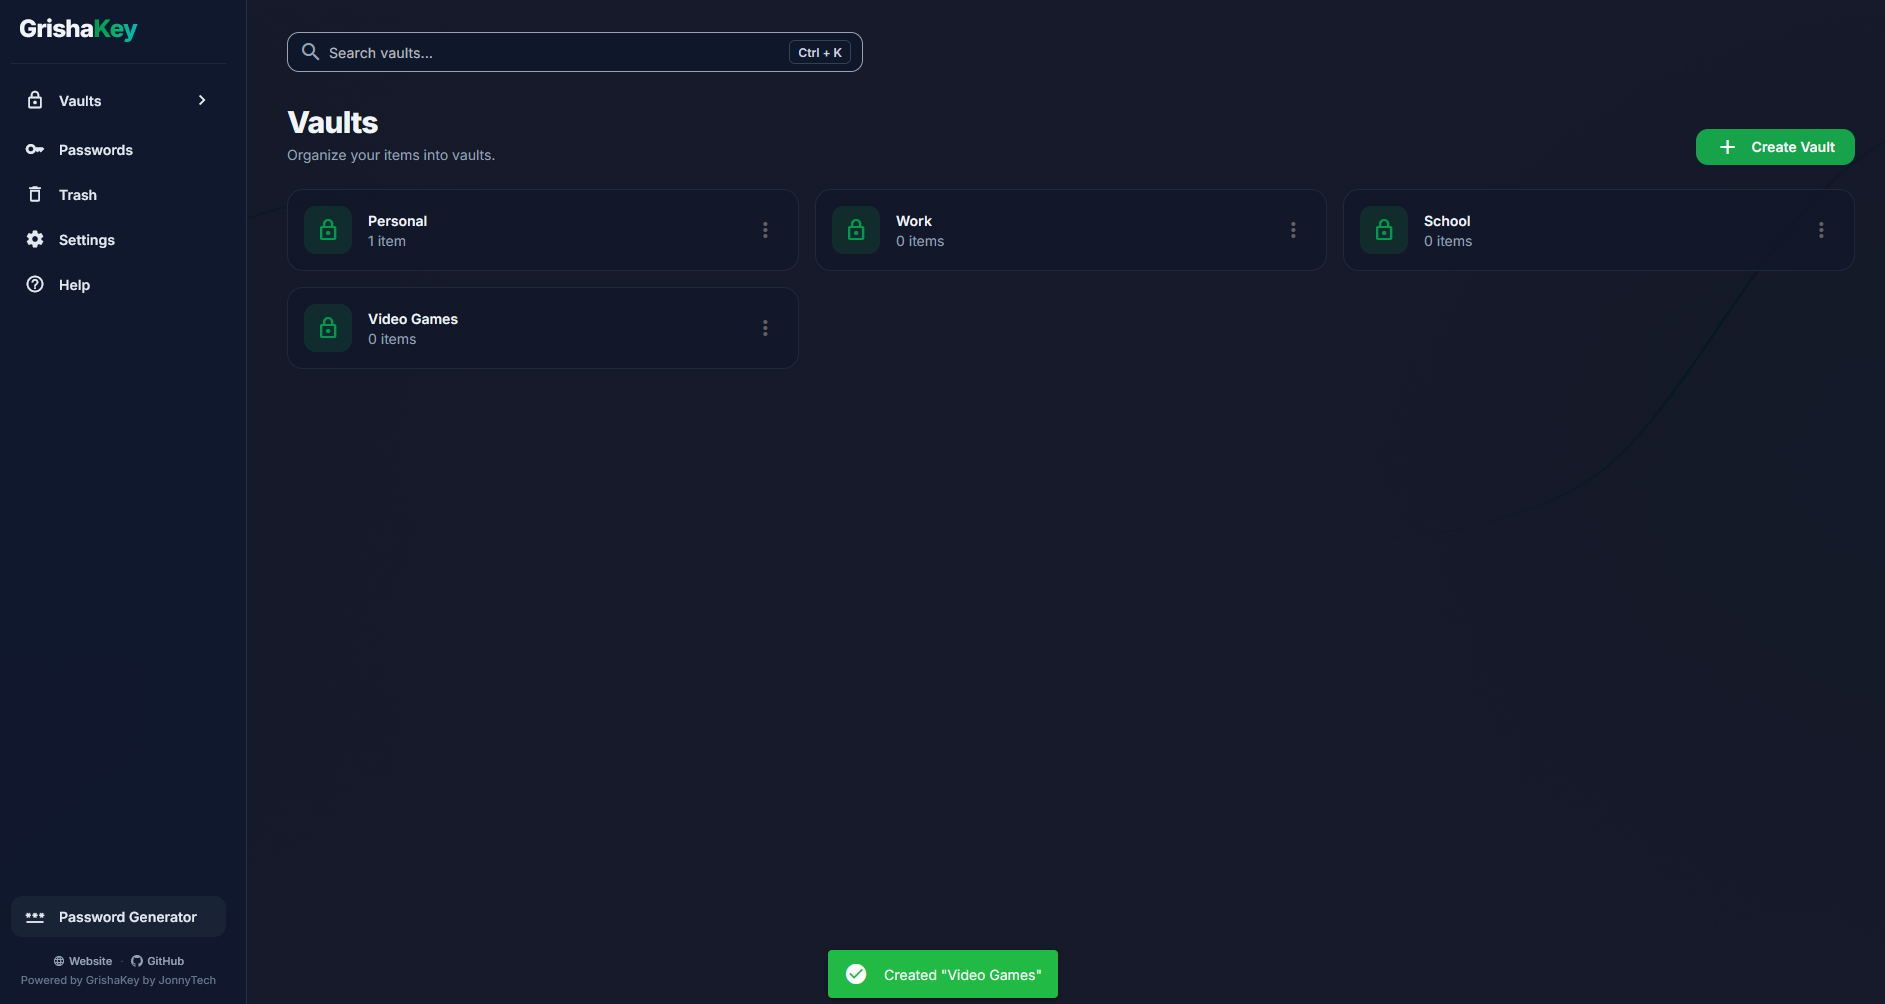
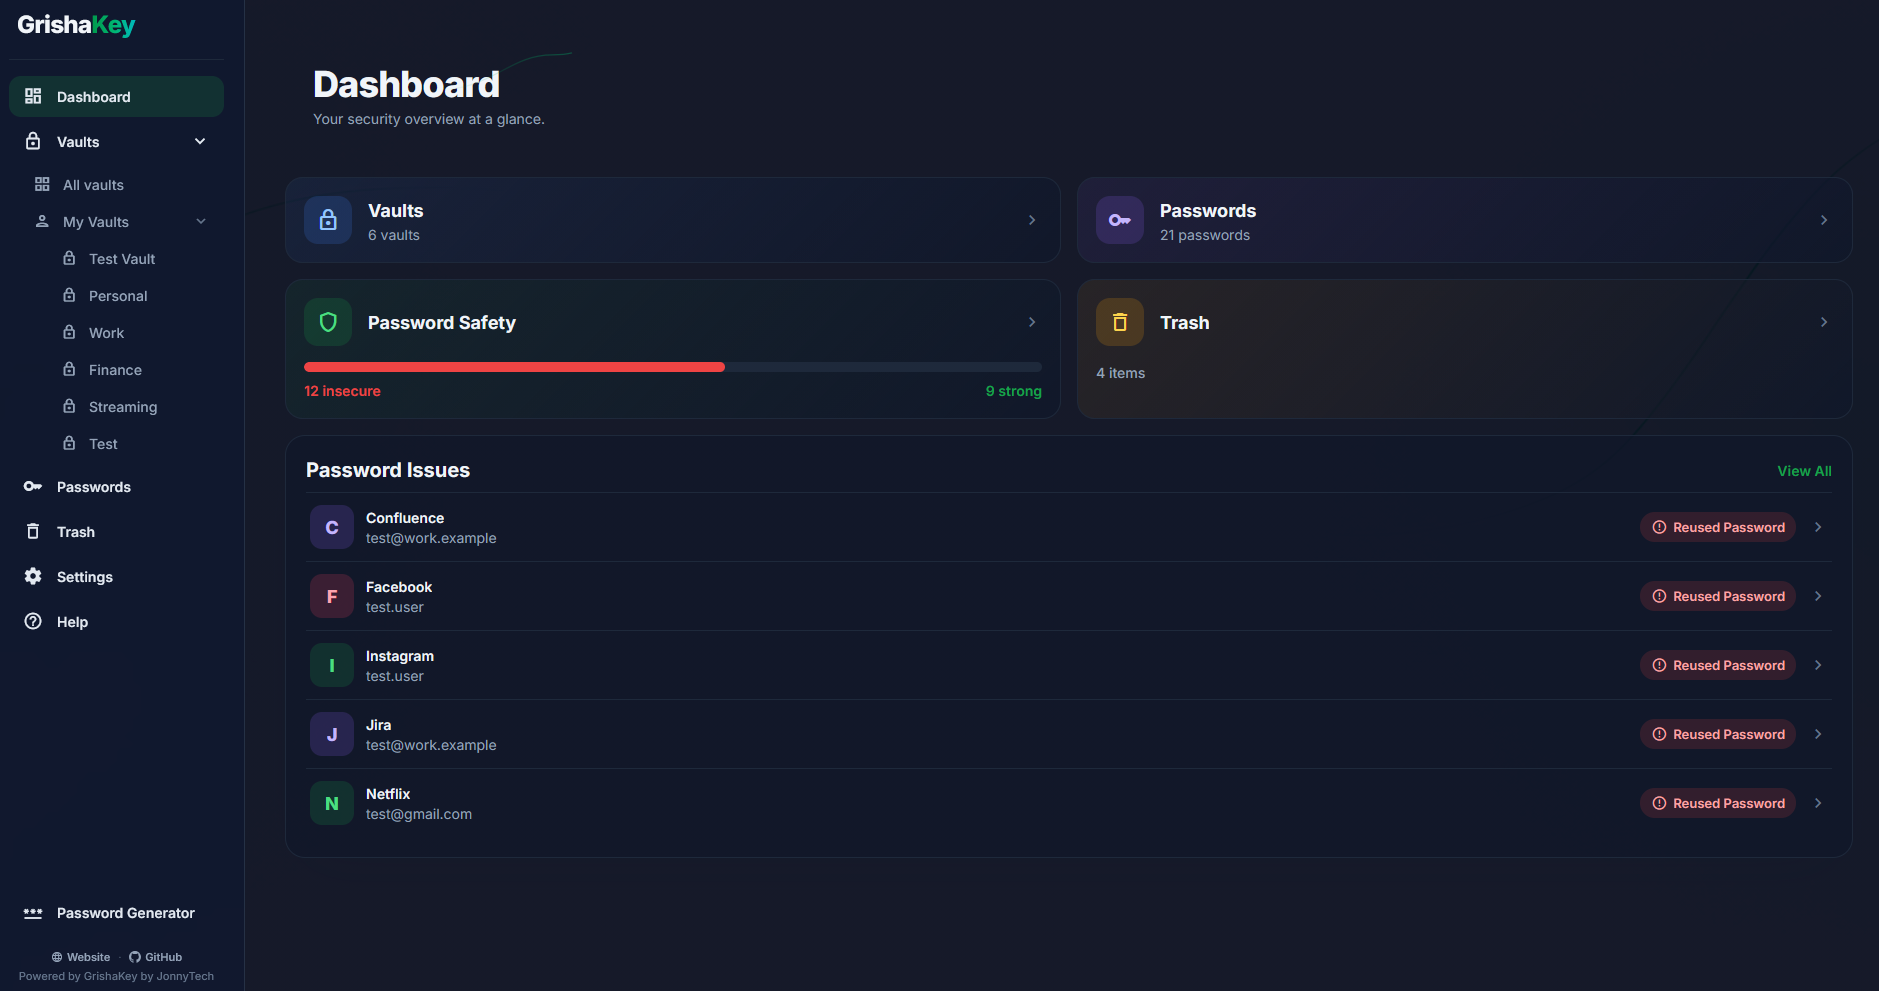
Fixed docker install readme and added new screenshots.

diff --git a/main.py b/main.py
@@ -158,15 +158,16 @@ def _credit_links(extra_classes: str = ""):
     # Small "Website · GitHub" links, with the required "Powered by GrishaKey by JonnyTech" under them.
     # The credit is required by the LICENSE. Do not tie it to APP_NAME or any setting.
     with ui.element("div").classes(f"gk-credit {extra_classes}"):
-        with ui.element("div").classes("gk-credit-links"):
-            with ui.link(target=WEBSITE_URL, new_tab=True).classes("gk-credit-link"):
-                ui.icon("language").style("font-size: 12px")
-                ui.label("Website")
-            ui.label("·").classes("gk-credit-dot")
-            with ui.link(target=GITHUB_URL, new_tab=True).classes("gk-credit-link"):
-                ui.html(GITHUB_ICON_SVG, sanitize=False).classes("flex items-center")
-                ui.label("GitHub")
-        ui.link(POWERED_BY_TEXT, POWERED_BY_URL, new_tab=True).classes("gk-powered")
+        # with ui.element("div").classes("gk-credit-links"):
+        #     with ui.link(target=WEBSITE_URL, new_tab=True).classes("gk-credit-link"):
+        #         ui.icon("language").style("font-size: 12px")
+        #         ui.label("Website")
+        #     ui.label("·").classes("gk-credit-dot")
+        #     with ui.link(target=GITHUB_URL, new_tab=True).classes("gk-credit-link"):
+        #         ui.html(GITHUB_ICON_SVG, sanitize=False).classes("flex items-center")
+        #         ui.label("GitHub")
+        # ui.link(POWERED_BY_TEXT, POWERED_BY_URL, new_tab=True).classes("gk-powered")
+        ui.label(POWERED_BY_TEXT).classes("gk-powered")
 
 # ========== Actions (run in a background thread, one DB connection each) ==========
 
@@ -717,6 +718,16 @@ def _apply_theme():
             }
             .gk-dialog-lg { width: min(94vw, 680px); }   /* for longer forms */
 
+            /* "Add people" row: one line on wide screens, stacks on phones */
+            .gk-add-row { display: flex; flex-wrap: nowrap; align-items: flex-start; gap: 8px; width: 100%; }
+            @media (max-width: 600px) {
+                .gk-add-row { flex-wrap: wrap; }
+                .gk-add-row > .gk-add-email { flex: 1 1 100%; }
+                .gk-add-row > .gk-add-role { flex: 1 1 auto; width: auto !important; }
+                /* Dialogs: a bit less padding so content has room */
+                .gk-dialog { padding: 20px !important; width: calc(100vw - 24px); }
+            }
+
             .gk-field-label {
                 font-size: 13px; font-weight: 600; color: #334155;
                 margin: 16px 0 6px;
@@ -1247,9 +1258,9 @@ def _dialog_header(icon: str, title: str, subtitle: str, tone: str = "green"):
     with ui.row().classes("items-center gap-3 no-wrap"):
         with ui.element("div").classes(f"rounded-xl p-2.5 {badge} flex"):
             ui.icon(icon).classes("text-2xl").style(f"color: {color}")
-        with ui.column().classes("gap-0"):
-            ui.label(title).classes("text-lg font-bold text-slate-900")
-            ui.label(subtitle).classes("text-sm text-slate-500")
+        with ui.column().classes("gap-0 min-w-0"):
+            ui.label(title).classes("text-lg font-bold text-slate-900 break-words")
+            ui.label(subtitle).classes("text-sm text-slate-500 break-words")
 
 
 def _field_label(text: str):
@@ -1426,10 +1437,10 @@ def _open_manage_vault_sharing(session, vault_id: str, vault_name: str):
 
         # Add someone: email + role + Add, in one line
         _field_label("Add people")
-        with ui.row().classes("w-full items-start no-wrap gap-2"):
-            email = _person_input(directory)
+        with ui.element("div").classes("gk-add-row"):
+            email = _person_input(directory).classes("gk-add-email")
             role = ui.select({"view": "Can view", "edit": "Can edit"}, value="view") \
-                .props("outlined dense").classes("gk-input").style("width: 140px")
+                .props("outlined dense").classes("gk-input gk-add-role").style("width: 140px")
             ui.button("Add", on_click=add).props("unelevated no-caps") \
                 .classes("rounded-lg px-5 font-semibold gradient-bg").style("height: 40px")
         if not USER_DIRECTORY:
@@ -1502,10 +1513,10 @@ def _open_manage_entry_sharing(session, entry):
 
         # Add someone: email + role + Add, in one line
         _field_label("Add people")
-        with ui.row().classes("w-full items-start no-wrap gap-2"):
-            email = _person_input(directory)
+        with ui.element("div").classes("gk-add-row"):
+            email = _person_input(directory).classes("gk-add-email")
             role = ui.select({"view": "Can view", "edit": "Can edit"}, value="view") \
-                .props("outlined dense").classes("gk-input").style("width: 140px")
+                .props("outlined dense").classes("gk-input gk-add-role").style("width: 140px")
             ui.button("Add", on_click=add).props("unelevated no-caps") \
                 .classes("rounded-lg px-5 font-semibold gradient-bg").style("height: 40px")
         if not USER_DIRECTORY:

diff --git a/core/health.py b/core/health.py
@@ -5,8 +5,8 @@ import string
 import os
 from dataclasses import dataclass
 
-STRONG_BITS = int(os.enviorn.get("STRONG_BITS", "60"))       # 60+ bits and not reused → strong
-FAIR_BITS = int(os.enviorn.get("FAIR_BITS", "40"))           # 40–59 bits → "Not strong enough"; under 40 → weak
+STRONG_BITS = int(os.environ.get("STRONG_BITS", "60"))       # 60+ bits and not reused → strong
+FAIR_BITS = int(os.environ.get("FAIR_BITS", "40"))           # 40–59 bits → "Not strong enough"; under 40 → weak
 
 # A short list of very common passwords and base words. Matching one makes a password weak,
 # even with numbers or symbols added ("Sunshine2024!").

diff --git a/core/sessions.py b/core/sessions.py
@@ -6,7 +6,7 @@ from core.models import Session
 from core.config import env_int
 
 # MIN 1 minutes and MAX 24 hours
-TIMEOUT_SECONDS = env_int("TIMEOUT_SECONDS", 15, minimum=5, maxiumum=1440) * 60
+TIMEOUT_SECONDS = env_int("TIMEOUT_SECONDS", 15, minimum=5, maximum=1440) * 60
 # A session ends after this long even if it's used the whole time (a stolen token can't live forever)
 # Converts minutes to hours
 MAX_LIFETIME_SECONDS = env_int("MAX_LIFETIME_HOURS", 12, minimum=1, maximum=720) * 60 * 60

diff --git a/core/transfer.py b/core/transfer.py
@@ -4,7 +4,7 @@ import io
 from urllib.parse import urlparse
 from core.config import env_int
 
-MAX_IMPORT_MB = env_int("MAX_IMPORT_MB", 8, minimum=1, maximum=10) * 1024 * 1024   # in MB
+MAX_IMPORT_MB = env_int("MAX_IMPORT_MB", 8, minimum=1, maximum=10)  # in MB
 MAX_IMPORT_BYTES = MAX_IMPORT_MB * 1024 * 1024
 MAX_IMPORT_ROWS = env_int("MAX_IMPORT_ROWS", 5000, minimum=1, maximum=5000)     # in rows
 

diff --git a/README.md b/README.md
@@ -94,10 +94,6 @@ It runs on your own server, and the app name can be changed with a setting, so a
 |---|---|
 | ![Trash](docs/screenshots/trash.png) | ![Help](docs/screenshots/help.png) |
 
-| Dark mode |
-|---|
-| <!-- SCREENSHOT: any page in dark mode. Save as docs/screenshots/dark-mode.png --> ![Dark mode](docs/screenshots/dark-mode.png) |
-
 ---
 
 ## Tech stack
@@ -207,11 +203,31 @@ The tables are created by `create_tables()` in [`core/storage.py`](core/storage.
 
 ## Getting started
 
-**1. Clone and install**
+Pick one way to run GrishaKey:
+
+| | Option 1: Python | Option 2: Docker |
+|---|---|---|
+| Best for | Trying it out, development | Running it day to day |
+| You need | Python 3.14 | Docker Desktop (or Docker Engine) |
+| Data lives in | `data/` in the project folder | The `grishakey-data` Docker volume |
+
+### Get the files (both options)
+
+Put GrishaKey in a folder you'll keep, for example `C:\GrishaKey` on Windows or `~/grishakey`
+on macOS and Linux. Either clone it:
 
 ```bash
-git clone https://github.com/jonnytech-dev/grishakey.git
-cd grishakey
+git clone https://github.com/jonnytech-dev/GrishaKey.git
+cd GrishaKey
+```
+
+or on GitHub click **Code → Download ZIP**, unzip it into that folder, and open a terminal there.
+
+### Option 1: Run with Python
+
+**1. Install**
+
+```bash
 python -m venv .venv
 .venv\Scripts\activate          # Windows
 # source .venv/bin/activate     # macOS / Linux
@@ -226,14 +242,13 @@ Generate one (it must be at least 32 characters; this makes 64):
 python -c "import secrets; print(secrets.token_urlsafe(48))"
 ```
 
-`main.py` reads its settings from environment variables. It doesn't load `.env` by itself, so set the secret in the terminal you run it from:
+`main.py` reads its settings from environment variables. It doesn't load `.env` by itself, so set
+the secret in the terminal you run it from:
 
 ```bash
 $env:STORAGE_SECRET = "paste-it-here"      # Windows PowerShell
 # export STORAGE_SECRET="paste-it-here"    # macOS / Linux
 ```
-
-For Docker, put it in `.env` instead (see [Run with Docker](#run-with-docker)).
 
 **3. Run**
 
@@ -241,11 +256,9 @@ For Docker, put it in `.env` instead (see [Run with Docker](#run-with-docker)).
 python main.py
 ```
 
-Open **http://127.0.0.1:9500** and create an account. Save your recovery code when it's shown.
+Open http://127.0.0.1:9500 and create an account. Save your recovery code when it's shown.
 
----
-
-## Run with Docker
+### Option 2: Run with Docker
 
 `compose.yaml` builds the image from the `Dockerfile` and runs it.
 
@@ -260,10 +273,17 @@ Open **http://127.0.0.1:9500** and create an account. Save your recovery code wh
 **1. Create your `.env`**
 
 ```bash
-cp .env.example .env
+cp .env.example .env                       # macOS / Linux
+# Copy-Item .env.example .env              # Windows PowerShell
 ```
 
-Put a generated secret after `STORAGE_SECRET=` (see step 2 above).
+Generate a secret and put it after `STORAGE_SECRET=` in `.env`:
+
+```bash
+python -c "import secrets; print(secrets.token_urlsafe(48))"
+```
+
+No Python? Any random string of 32 or more characters works, for example from a password generator.
 
 **2. Start it**
 
@@ -271,9 +291,7 @@ Put a generated secret after `STORAGE_SECRET=` (see step 2 above).
 docker compose up -d --build
 ```
 
-Open **http://127.0.0.1:9500**.
-
-> **Note:** the `Dockerfile` sets `GRISHAKEY_HOST=0.0.0.0` and `GRISHAKEY_PORT=9500`, but `main.py` doesn't read them yet. It always listens on `127.0.0.1:9500`, which inside a container can't be reached through the published port.
+Open http://127.0.0.1:9500 and create an account. Save your recovery code when it's shown.
 
 **Back up the data**
 
@@ -283,16 +301,20 @@ docker run --rm --volumes-from grishakey -v "${PWD}:/backup" alpine tar czf /bac
 docker compose start
 ```
 
-The backup holds your encrypted database. Keep it somewhere safe, and never commit it (`*.tgz` is in `.gitignore`).
+The backup holds your encrypted database. Keep it somewhere safe, and never commit it
+(`*.tgz` is in `.gitignore`).
 
 **Update**
 
 ```bash
-git pull
+git pull                      # or download the ZIP again into the same folder
 docker compose up -d --build
 ```
 
-**Other devices:** to reach it from other devices, put a reverse proxy with HTTPS (Caddy, Nginx, Traefik) in front of it. If you change the port to `"9500:9500"`, use HTTPS.
+Your data stays in the volume, so updating never touches it.
+
+**Other devices:** to reach it from other devices, put a reverse proxy with HTTPS (Caddy, Nginx,
+Traefik) in front of it. If you change the port to `"9500:9500"`, use HTTPS.
 
 ---
 
@@ -312,10 +334,11 @@ and lets you save new ones without opening the app. It works in Chrome, Edge, an
 
 ### Screenshots
 
-| Popup | Fill from login fields |
+| Sign in | Popup |
 |---|---|
-| ![Popup](docs/screenshots/extension/popup-home.png) | ![In-page dropdown](docs/screenshots/extension/inline-dropdown.png) |
-| ![New login](docs/screenshots/extension/new-login.png) | ![Options](docs/screenshots/extension/options.png) |
+| ![Sign in](docs/screenshots/extension/popup_signin.png) | ![Popup](docs/screenshots/extension/popup_home.png) |
+| ![In-page dropdown](docs/screenshots/extension/inline_dropdown.png) | ![New login](docs/screenshots/extension/new_login.png) |
+| ![Options](docs/screenshots/extension/options.png) | |
 
 ### Before you start
 
